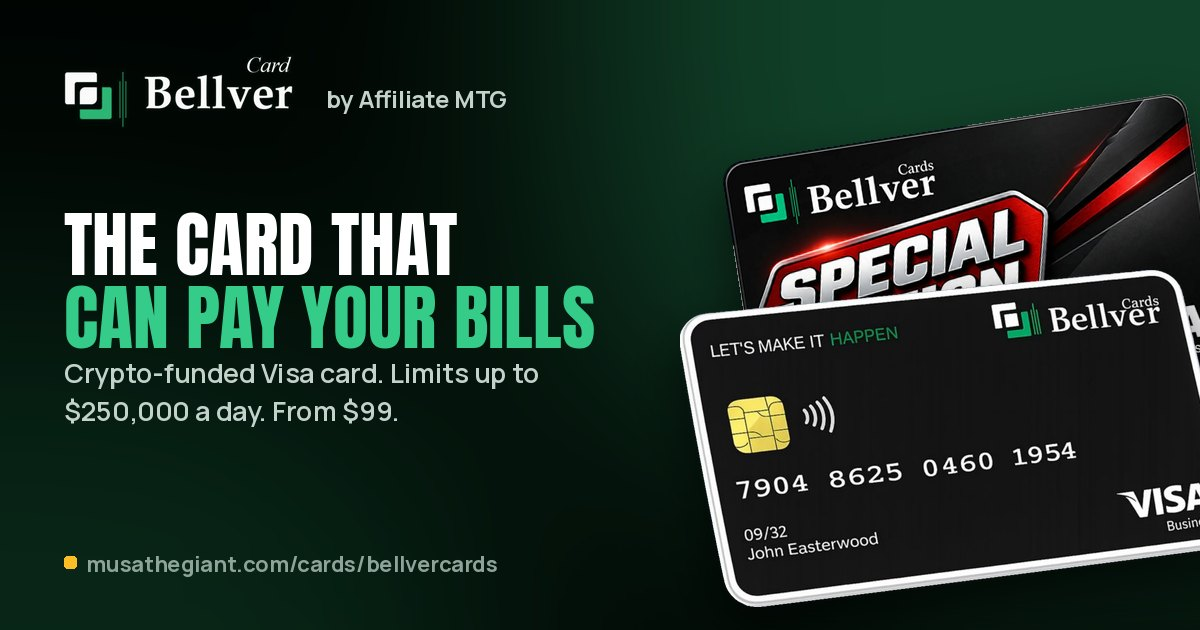
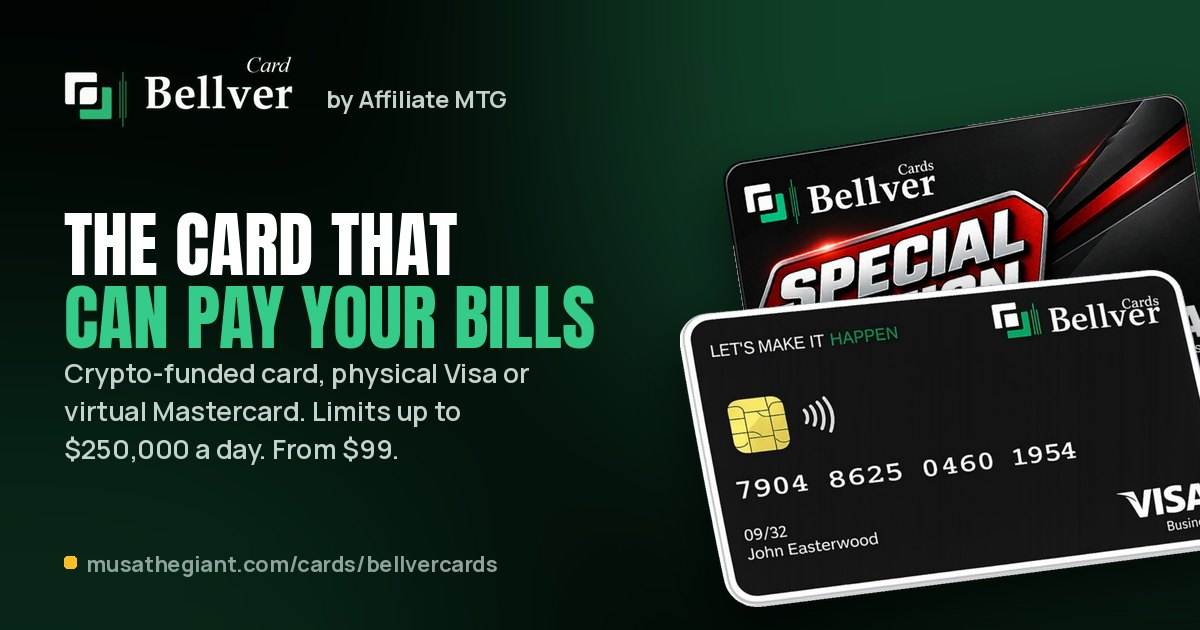
Bellver: share image now says physical Visa or virtual Mastercard; bump image version so WhatsApp and Facebook refetch it
Claude-Session: https://claude.ai/code/session_01EfSLD4XKBMX3jpFRqeX61H

Changed region(s): [[0.0308, 0.573, 0.4625, 0.754]]

diff --git a/cards/bellvercards/index.html b/cards/bellvercards/index.html
@@ -16,8 +16,8 @@
 <meta property="og:title" content="Bellver Card: The Crypto Card That Can Pay Your Bills | MTG">
 <meta property="og:description" content="Order the Bellver Card from $99. A crypto-funded card (Visa physical, Mastercard virtual) with limits up to $250,000 a day, your own private-key wallet and monthly rewards when your referrals use their cards.">
 <meta property="og:url" content="https://www.musathegiant.com/cards/bellvercards/">
-<meta property="og:image" content="https://www.musathegiant.com/cards/bellvercards/images/og/og-bellver-cards.jpg?v=20261008">
-<meta property="og:image:secure_url" content="https://www.musathegiant.com/cards/bellvercards/images/og/og-bellver-cards.jpg?v=20261008">
+<meta property="og:image" content="https://www.musathegiant.com/cards/bellvercards/images/og/og-bellver-cards.jpg?v=20261009">
+<meta property="og:image:secure_url" content="https://www.musathegiant.com/cards/bellvercards/images/og/og-bellver-cards.jpg?v=20261009">
 <meta property="og:image:type" content="image/jpeg">
 <meta property="og:image:width" content="1200"><meta property="og:image:height" content="630">
 <meta property="og:image:alt" content="Bellver Card, the card that can pay your bills">
@@ -25,7 +25,7 @@
 <meta name="twitter:card" content="summary_large_image">
 <meta name="twitter:title" content="Bellver Card: The Crypto Card That Can Pay Your Bills | MTG">
 <meta name="twitter:description" content="Order the Bellver Card from $99. A crypto-funded card (Visa physical, Mastercard virtual) with limits up to $250,000 a day, your own private-key wallet and monthly rewards when your referrals use their cards.">
-<meta name="twitter:image" content="https://www.musathegiant.com/cards/bellvercards/images/og/og-bellver-cards.jpg?v=20261008">
+<meta name="twitter:image" content="https://www.musathegiant.com/cards/bellvercards/images/og/og-bellver-cards.jpg?v=20261009">
 <script type="application/ld+json">
 {
  "@context": "https://schema.org",
@@ -46,7 +46,7 @@
    "dateModified": "2026-10-06",
    "primaryImageOfPage": {
     "@type": "ImageObject",
-    "url": "https://www.musathegiant.com/cards/bellvercards/images/og/og-bellver-cards.jpg?v=20261008"
+    "url": "https://www.musathegiant.com/cards/bellvercards/images/og/og-bellver-cards.jpg?v=20261009"
    },
    "breadcrumb": {
     "@type": "BreadcrumbList",

diff --git a/cards/bellvercards/_build/og.py b/cards/bellvercards/_build/og.py
@@ -41,7 +41,7 @@ def make(name,l1,l2,sub,art='card',green=2):
     d.rounded_rectangle((64,H-74,64+12,H-62),3,fill=(252,190,37))
     d.text((86,H-82),'musathegiant.com/cards/bellvercards',font=ImageFont.truetype(FM.format(700),22),fill=(142,163,154))
     im.convert('RGB').save(os.path.join(IMG,'og',name),'JPEG',quality=86,optimize=True,progressive=True); print(name)
-make('og-bellver-cards.jpg','THE CARD THAT','CAN PAY YOUR BILLS','Crypto-funded Visa card. Limits up to $250,000 a day. From $99.','both')
+make('og-bellver-cards.jpg','THE CARD THAT','CAN PAY YOUR BILLS','Crypto-funded card, physical Visa or virtual Mastercard. Limits up to $250,000 a day. From $99.','both')
 make('og-bellver-how-it-works.jpg','HOW THE','CARD WORKS','Your own Fireblocks wallet, funding with USDT or USDC, physical or virtual.')
 make('og-bellver-prices.jpg','PRICES, FEES','AND LIMITS','Basic $99, Premium $270, Business $490, Gold $990. Every fee in plain numbers.')
 make('og-bellver-rewards.jpg','THE REWARDS','PROGRAM','Commissions, the 2x2 matrix, star ranks and the rules to stay qualified.','both')
